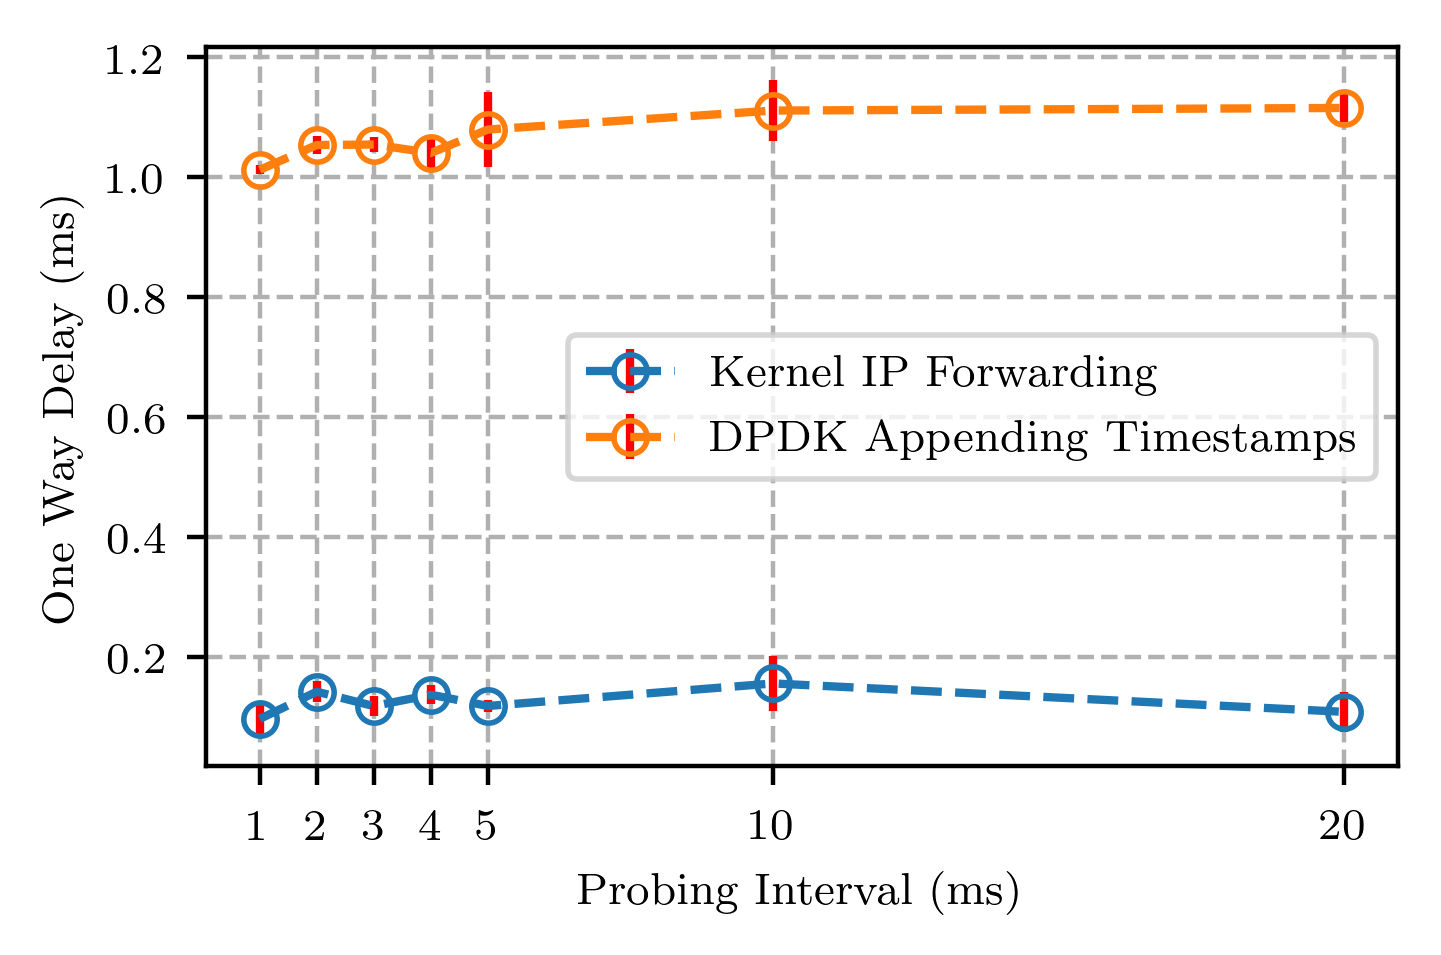
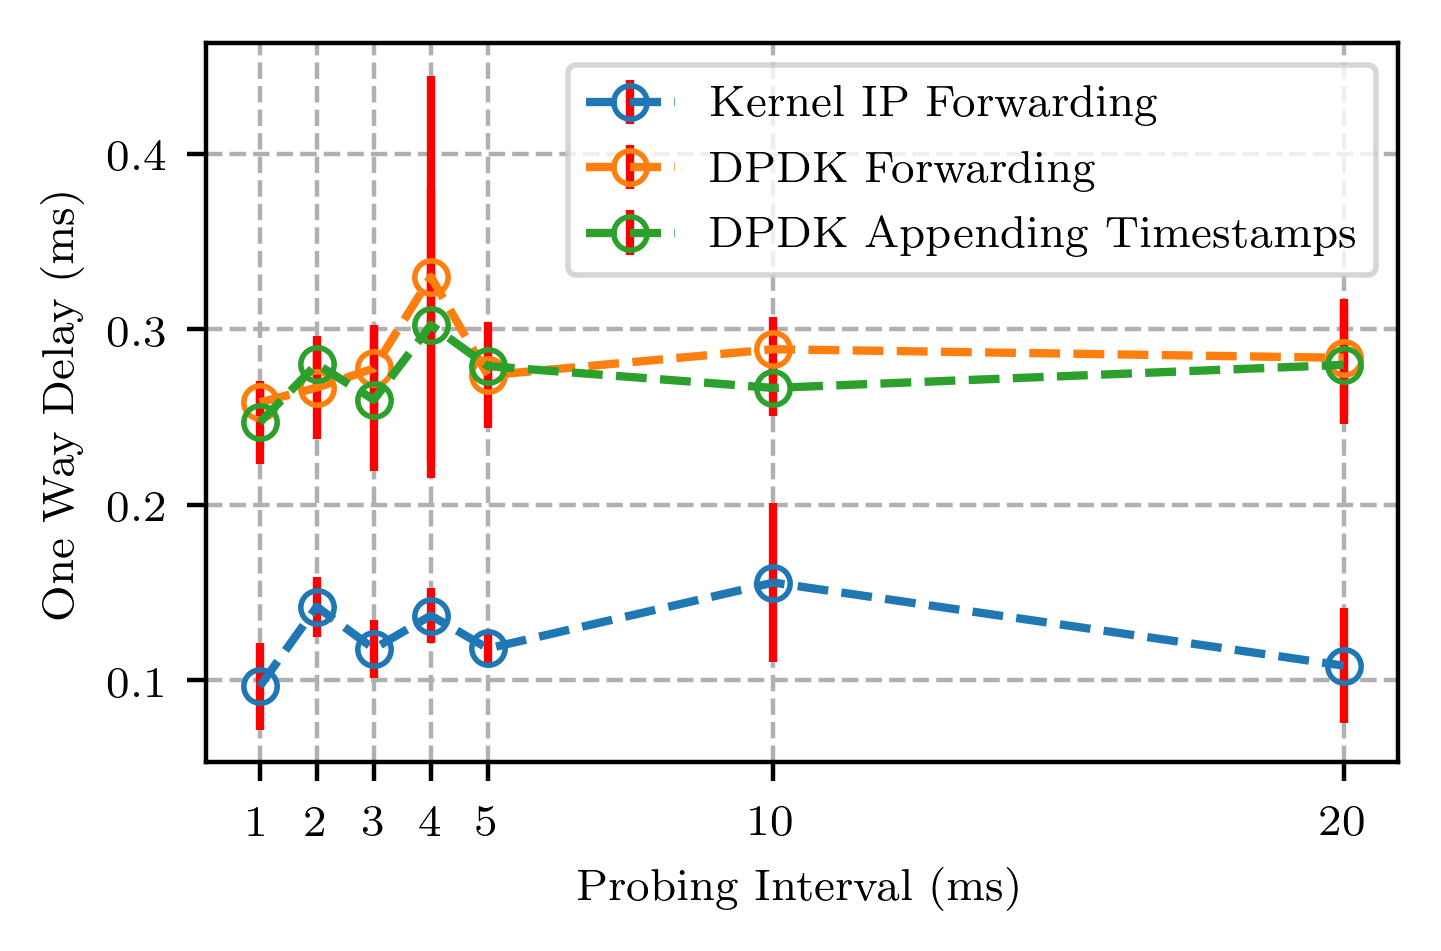
Add IPD results of DPDK forwarding and appending ts

diff --git a/evaluation/one_way_delay/plot.py b/evaluation/one_way_delay/plot.py
@@ -53,49 +53,6 @@ def calc_owd_lst(subdir, csv_tpl, var_lst):
     return owd_result_lst
 
 
-def plot_dpdk():
-
-    ### Calc ###
-    ipd_lst = [1000, 500, 100]
-    ipd_lst.extend(range(8, 22, 2))
-    ipd_lst.sort()
-
-    owd_result_lst = list()
-
-    for ipd in ipd_lst:
-        tmp_list = list()
-        csv_name = 'udp_owd_1_%dus.csv' % (ipd)
-        csv_path = os.path.join('./result_csv/dpdk', csv_name)
-        owd_arr = np.genfromtxt(csv_path, delimiter=',') / 1000.0
-        owd_arr = owd_arr[:, WARM_UP_NUM:]
-        tmp_list = np.average(owd_arr, axis=1)
-        owd_result_lst.append(
-            # Average value and confidence interval
-            (np.average(tmp_list), calc_hwci(tmp_list))
-        )
-    print(owd_result_lst)
-    ### Plot ###
-    tex.setup(width=1, height=None, span=False, l=0.15, r=0.98, t=0.98, b=0.17,
-              params={})
-
-    fig, ax = plt.subplots()
-    x = list(map(lambda x: x / 1000.0, ipd_lst))
-    ax.errorbar(x, [t[0] for t in owd_result_lst],
-                yerr=[t[1] for t in owd_result_lst],
-                color='blue', ecolor='red',
-                label='Chain Length = 1', linestyle='--'
-                )
-
-    handles, labels = ax.get_legend_handles_labels()
-    ax.legend(handles, labels, loc='best')
-    ax.grid(linestyle='--')
-
-    ax.set_xlim(0.0075, 0.020)
-    ax.set_xlabel('Probing interval (ms)')
-    ax.set_ylabel('One Way Delay (ms)')
-    save_fig(fig, './dpdk_udp_ipd')
-
-
 def plot_poll_interval():
     slp_lst = [0]
     slp_lst.extend([10 ** x for x in range(0, 6)])
@@ -107,7 +64,7 @@ def plot_poll_interval():
             csv_name = 'slp30_0_0_%s.csv' % (slp)
         else:
             csv_name = 'slp30_10_10_%s.csv' % (slp)
-        csv_path = os.path.join('./results/slp_data', csv_name)
+        csv_path = os.path.join('./results/owd/slp_data', csv_name)
         owd_arr = np.genfromtxt(csv_path, delimiter=',') / 1000.0
         owd_arr = owd_arr[:, WARM_UP_NUM:]
         tmp_list = np.average(owd_arr, axis=1)
@@ -121,7 +78,7 @@ def plot_poll_interval():
     cpu_usage_lst = list()
     for slp in slp_lst[1:]:
         csv_name = 'cpu30_10_10_%s.csv' % (slp)
-        csv_path = os.path.join('./results/cpu_data', csv_name)
+        csv_path = os.path.join('./results/owd/cpu_data', csv_name)
         cpu_arr = np.genfromtxt(csv_path, delimiter=',',
                                 usecols=range(0, 545))
         cpu_arr = cpu_arr[:, :-1]
@@ -177,13 +134,14 @@ def plot_ipd():
               params={})
     ipd_lst = [1, 2, 3, 4, 5, 10, 20]
     cmap = cm.get_cmap('tab10')
-    techs = [x+'_%sms.csv' for x in ('kern', 'dpdk')]
-    labels = ('Kernel IP Forwarding', 'DPDK Appending Timestamps')
+    techs = [x+'_%sms.csv' for x in ('kern', 'dpdkfwd', 'dpdkts')]
+    labels = ('Kernel IP Forwarding', 'DPDK Forwarding',
+              'DPDK Appending Timestamps')
     colors = [cmap(x) for x in range(len(techs))]
 
     fig, owd_ax = plt.subplots()
     for tech, label, color in zip(techs, labels, colors):
-        owd_result_lst = calc_owd_lst('./results/ipd_data/', tech, ipd_lst)
+        owd_result_lst = calc_owd_lst('./results/owd/ipd_data/', tech, ipd_lst)
 
         owd_ax.errorbar(ipd_lst, [t[0] for t in owd_result_lst],
                         yerr=[t[1] for t in owd_result_lst],

diff --git a/Wiki.md b/Wiki.md
@@ -1,0 +1,4 @@
+# Wiki #
+
+## 1. Setup XDP for KVM on OpenStack ##
+
